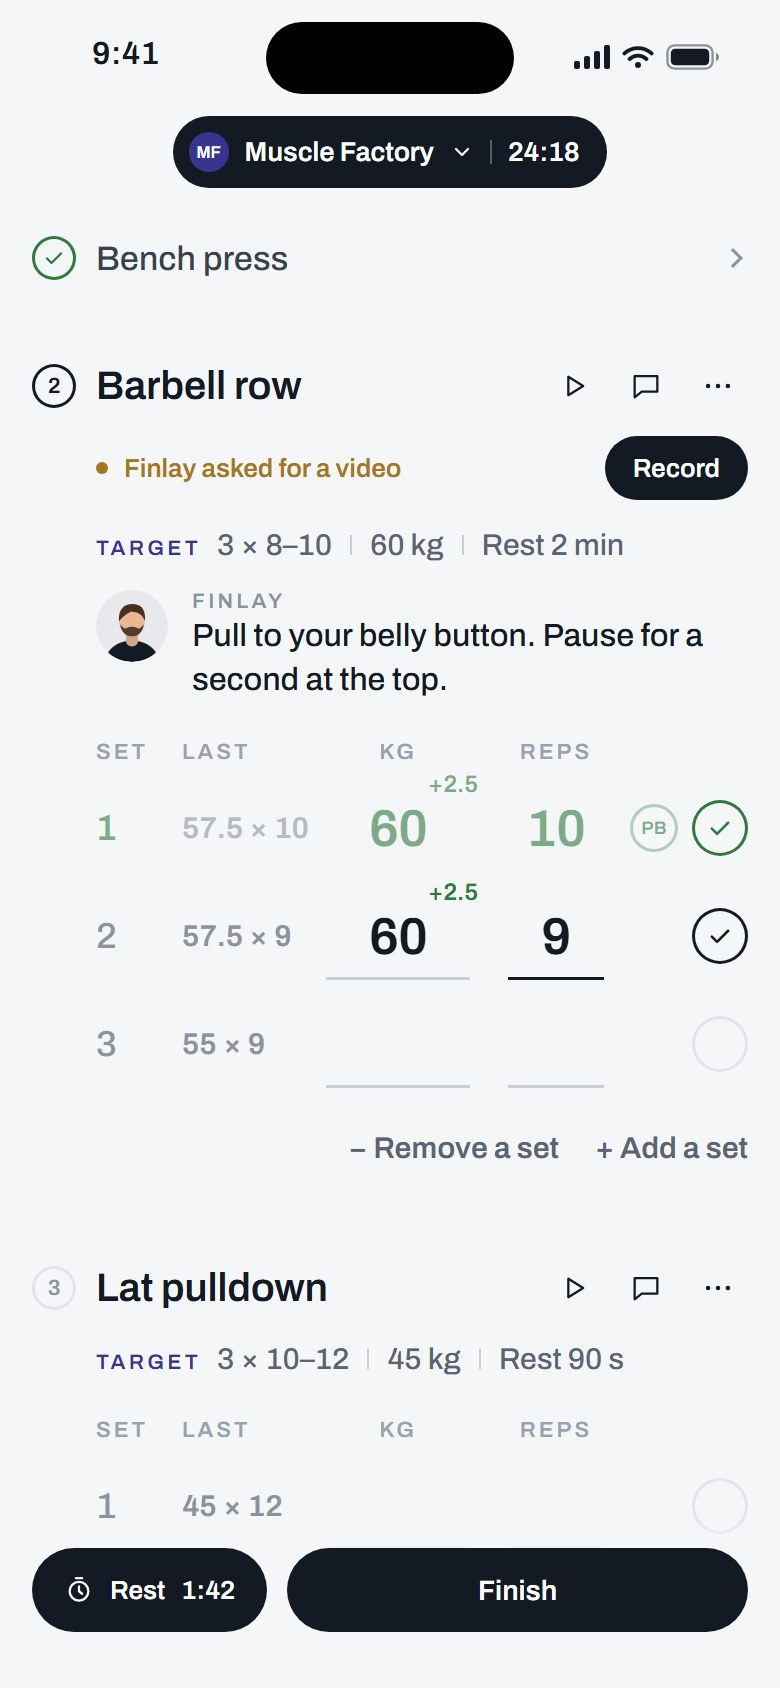
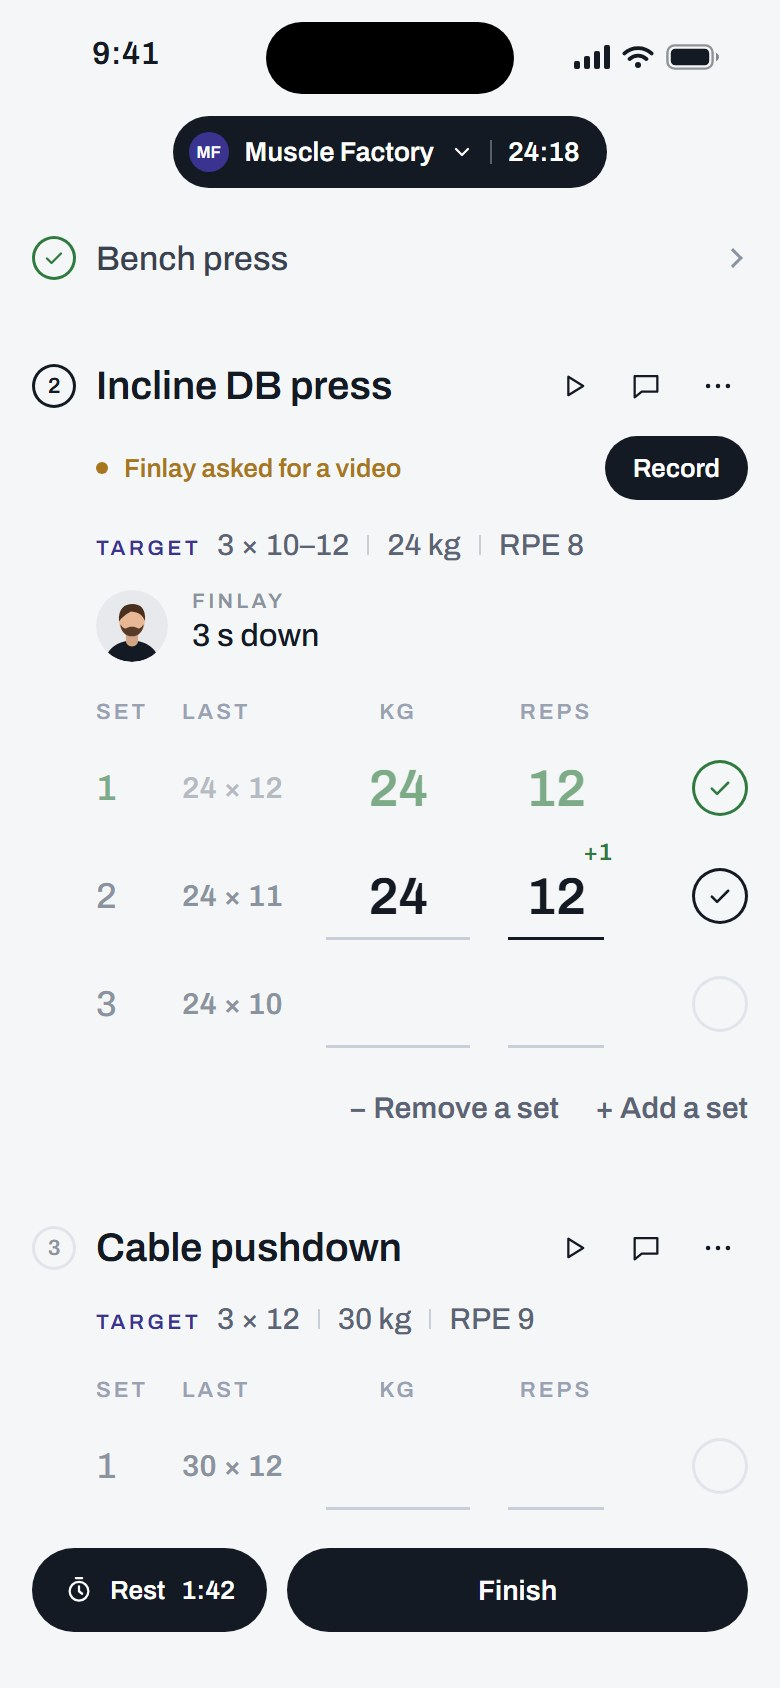
Website: the phone's workout is the laptop's Push A (21 Nov, Alex: "the two screens don't match"): bench press done, Incline DB press open at 3 × 10–12 | 24 kg | RPE 8 with Finlay's "3 s down" and his video ask, sets 24 × 12 then 24 × 12 (+1 on last time), and Cable pushdown next at 3 × 12 | 30 kg |

diff --git a/website/index.html b/website/index.html
@@ -164,7 +164,7 @@
           </div>
           <div class="phone"><div class="screen stack">
             <img src="img/snaps/phone-lifestyle.jpg" width="780" height="1688" loading="lazy" decoding="async" draggable="false" aria-hidden="true" alt="The client’s check-in on their phone: their weight on a graph, on its way to the goal their coach set.">
-            <img class="on" src="img/snaps/phone-training.jpg" width="780" height="1688" loading="lazy" decoding="async" draggable="false" alt="A workout on the client’s phone: the exercise, the coach’s note with his face, the target, and the set being logged.">
+            <img class="on" src="img/snaps/phone-training.jpg?v=pusha" width="780" height="1688" loading="lazy" decoding="async" draggable="false" alt="A workout on the client’s phone: the exercise, the coach’s note with his face, the target, and the set being logged.">
             <img src="img/snaps/phone-nutrition.jpg?v=cut" width="780" height="1688" loading="lazy" decoding="async" draggable="false" aria-hidden="true" alt="The client’s Nutrition screen on their phone: the day’s targets as a ring, their supplements and their coach’s note.">
           </div></div>
         </div>

diff --git a/website/training.html b/website/training.html
@@ -63,7 +63,7 @@
           <div class="lid"><div class="screen"><img src="img/snaps/coach-training.jpg" width="2000" height="1250" draggable="false" alt="The coach’s Training tab: week 4 of a strength programme, each set the client logged beside the coach’s target." fetchpriority="high"></div></div>
           <div class="base"></div>
         </div>
-        <div class="phone"><div class="screen"><img src="img/snaps/phone-training.jpg" width="780" height="1688" draggable="false" alt="A workout on the client’s phone: the exercise, the coach’s note with his face, the target, and the set being logged." fetchpriority="high"></div></div>
+        <div class="phone"><div class="screen"><img src="img/snaps/phone-training.jpg?v=pusha" width="780" height="1688" draggable="false" alt="A workout on the client’s phone: the exercise, the coach’s note with his face, the target, and the set being logged." fetchpriority="high"></div></div>
       </div>
     </div>
     </div>
